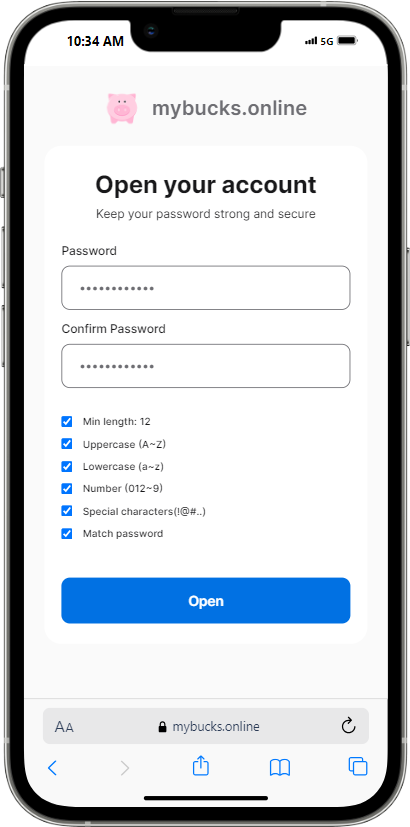
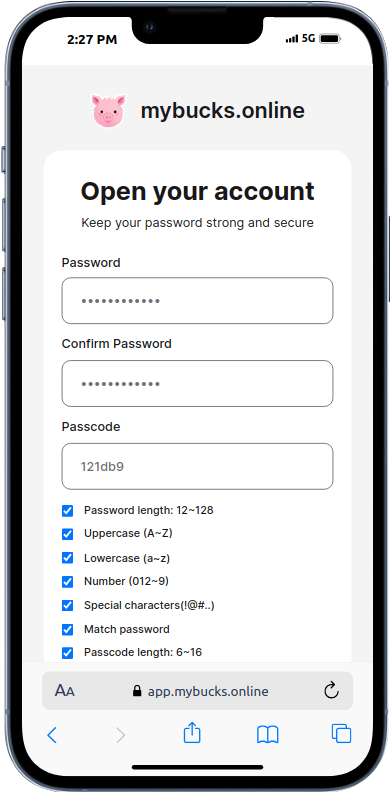
update README

diff --git a/README.md b/README.md
@@ -6,18 +6,18 @@ This is a **password-only crypto wallet** built with [React.js](https://react.de
 
 ## How to Use
 
-1. Visit `app.mybucks.online`
-2. Input your password and confirmation
-3. Click `Open`
+1. Visit `app.mybucks.online`.
+2. Input your password, confirmation, and passcode.
+3. Click `Open`.
 
 (This process is the same for both initial opening and all subsequent uses.)
 
-![Sign-in](/screenshots/Macbook-Air-mybucks.online.png)
+![Sign-in](/screenshots/1.sign-in.png)
 
 <p align="center">
-<img src="screenshots/iphone-13-signin.png" width="32%" alt="Sign-in">
-<img src="screenshots/iphone-13-dashboard.png" width="32%" alt="Dashboard">
-<img src="screenshots/iphone-13-transfer.png" width="32%" alt="Transfer">
+<img src="screenshots/iphone-13-signin.png" width="33%" alt="Sign-in">
+<img src="screenshots/iphone-13-dashboard.png" width="33%" alt="Dashboard">
+<img src="screenshots/iphone-13-transfer.png" width="33%" alt="Transfer">
 </p>
 
 ## Key Points
